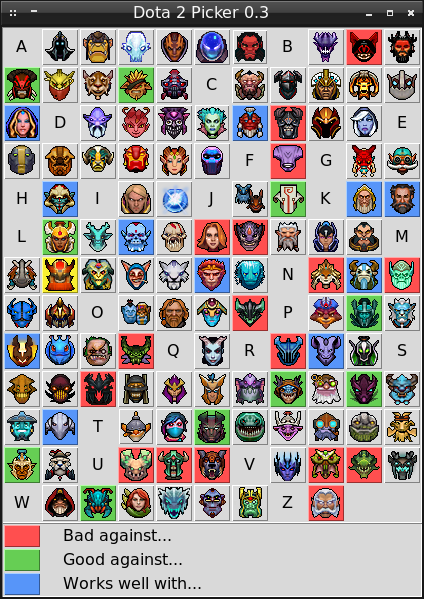
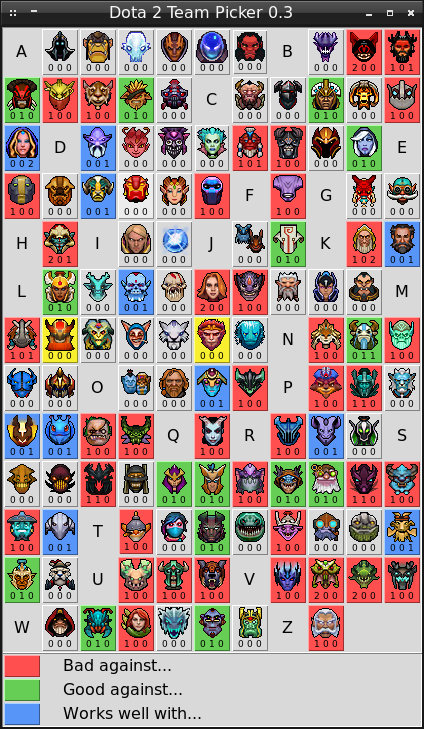
Fix the description of the picker.py script in README

diff --git a/README.md b/README.md
@@ -81,15 +81,7 @@ The `d2-picker.py` script shows you which heroes are bad or good against the cho
 
 Start the `d2-picker.py` script and click on the hero icon. The yellow color will highlight it. The red color highlights all heroes who can easily beat the selected one. We can say that the selected hero is "bad against" them. The green color means that the chosen hero is "good against" the selected ones. The blue color shows heroes which can be combined effectively with the selected hero in one team. It means that he "works well with" them.
 
-There are three buttons with red, green and blue color at the bottom of the window. You can press each button filtering the highlighted heroes. If you press the red button, only heroes which are strong against the chosen one will be highlighted. The green and blue buttons work the same for "good against..." and "works well with..." heroes.
-
-### Team Picker
-
-The `d2-team-picker.py` script works similarly as `d2-picker.py`. It shows you "bad against", "good against" and "works well with" relations between heroes.
-
-![Team Picker Script](dota2picker/images/readme/team-picker-window.png)
-
-The `d2-team-picker.py` script allows you to pick several heroes at the same time. Then it shows relations of all picked heroes. Meaning of the colors, which highlight heroes, are the same as for the `d2-picker.py` script. You can filter highlights with the red, green and blue buttons at the bottom of the window.
+The script allows you to pick several heroes at the same time. Then it shows relations of all picked heroes.
 
 There are three digits under each hero icon which estimate him. These are meaning of these digits:
 
@@ -97,9 +89,11 @@ There are three digits under each hero icon which estimate him. These are meanin
 2. How many of the picked heroes are good against this one?
 3. How many of the picked heroes are works well with this one?
 
-Let's consider an example with the window on the screenshot above. The enemy team has picked two heroes: Mars and Monkey King. Both of them are bad against Batrider. Thus, Batrider gets scores "2 0 0". If you pick Batrider in the game, it will be a good choice in this case.
+Let's consider an example with the window on the screenshot above. The enemy team has picked two heroes: Mars and Monkey King. Both of them are bad against Batrider. Thus, Batrider gets scores "2 0 0". If you pick Batrider for your team, it will be a good choice in this case.
 
 At the same time, Monkey King is bad against Spectre but Mars is good against her. Thus, Spectre gets scores "1 1 0". She is still highlighted red because her bad and good scores are equal. She will get the green color in case of "1 2 0" scores for example. If you pick Spectre against Mars and Monkey King, probably you will have a tough game.
+
+There are three buttons with red, green and blue color at the bottom of the window. You can press each button and filter the highlighted heroes. If you press the red button, only heroes which are strong against the chosen one will be highlighted. The green and blue buttons work the same for "good against..." and "works well with..." heroes.
 
 You can cancel the current selection of heroes by the *Esc* button.
 
@@ -123,7 +117,7 @@ These are steps to remove the hero from the "bad against..." relations:
 
 You can follow the same algorithm for adding a hero to relations. Also, you should follow the same steps for adding/removing a hero to the "good against..." and "works well with..." relations.
 
-The `d2-picker.py`, `d2-team-picker.py`, `d2-checker.py` and `d2-editor.py` scripts use the same database. It means that you will see all your changes in all these scripts.
+The `d2-picker.py`, `d2-checker.py` and `d2-editor.py` scripts use the same database. It means that you will see all your changes in all these scripts.
 
 This is path to database with heroes on Linux:<br/>
 `~/.local/share/dota2picker/Database.pkl`
@@ -174,7 +168,7 @@ The `d2-checker.py` script works with the database in the Pickle format (the `Da
 
 ### Import and Export
 
-The `d2-picker.py`, `d2-team-picker.py`, `d2-checker.py` and `d2-editor.py` scripts use the database in the Pickle format (the `Database.pkl` file). This is a binary format, which is not convenient for reviewing in a text editor and comparing with other database files.
+The `d2-picker.py`, `d2-checker.py` and `d2-editor.py` scripts use the database in the Pickle format (the `Database.pkl` file). This is a binary format, which is not convenient for reviewing in a text editor and comparing with other database files.
 
 The `d2-pkl2csv.py` script allows you to convert the database from the Pickle format to the CSV. If you launch the script, you get the `Database.csv` file in the database directory (see the "Editor" section). You can open this file in any text editor or MS/Libre Office application.
 
